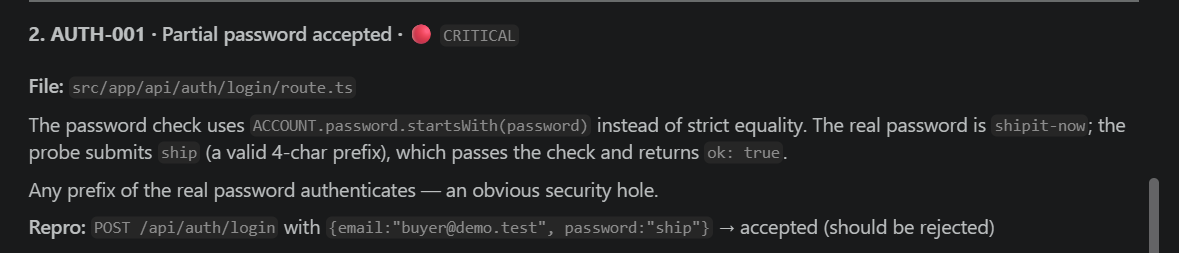
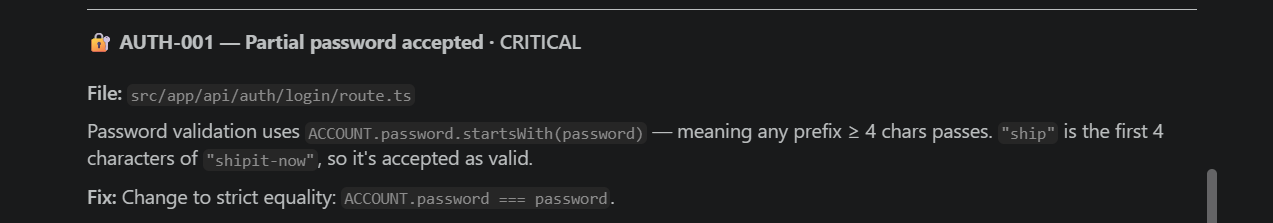
Replace the Bob session with the run that uses the corrected skill.
Bob's three parallel subagents now report the cart at 25 instead of 35, the prefix
login, and the dropped category filter, and name each route file. The report on the
dashboard is the one that run wrote.

diff --git a/bob_sessions/bob-task-7d88dc922a9a96ea6eaf8998410e01ef-2026-09-27.md b/bob_sessions/bob-task-7d88dc922a9a96ea6eaf8998410e01ef-2026-09-27.md
@@ -1,0 +1,102 @@
+# wagwan
+
+---
+
+**Status:** active  **Date:** 2026-09-27
+
+---
+
+### 👤 User
+
+wagwan
+
+---
+
+### 🤖 Assistant
+
+Wagwan! What are we building today?
+
+---
+
+### 👤 User
+
+Follow skills/breakage-probe/SKILL.md. The app is already on http://127.0.0.1:3000. Launch Cart, Auth, and Search probes as parallel subagents, then summarize the breakages and point at the file that causes each one.
+
+---
+
+### 🤖 Assistant
+
+> 🔧 called: read_file
+
+
+
+> 🔧 **read_file** — skills/breakage-probe/SKILL.md
+
+### 🤖 Assistant
+
+> 🔧 called: read_file
+
+
+
+> 🔧 **read_file** — reports/breakage-latest.json
+
+### 🤖 Assistant
+
+> 🔧 called: spawn_subagent, spawn_subagent, spawn_subagent
+
+Now launching the three probes in parallel as subagents:
+
+> 🔧 **spawn_subagent** — general
+
+> 🔧 **spawn_subagent** — general
+
+> 🔧 **spawn_subagent** — general
+
+### 🤖 Assistant
+
+> 🔧 called: write_file
+
+All three probes are back. Writing the updated report:
+
+> 🔧 **write_file** — reports/breakage-latest.json
+
+### 🤖 Assistant
+
+All three probes completed. Here's the full breakdown:
+
+---
+
+## 🔴 3 / 3 Probes Failed
+
+---
+
+### 🛒 CART-001 — Cart total ignores quantity · **HIGH**
+**File:** [`src/app/api/cart/total/route.ts`](src/app/api/cart/total/route.ts)
+
+The `reduce` accumulator uses `item.price` alone — never multiplied by `item.qty`. So `2×$10 + 1×$15` computes as `$10 + $15 = $25` instead of `$35`.
+
+**Fix:** Change the unfixed branch from `Number(item.price)` → `Number(item.price) * Number(item.qty)`.
+
+---
+
+### 🔐 AUTH-001 — Partial password accepted · **CRITICAL**
+**File:** [`src/app/api/auth/login/route.ts`](src/app/api/auth/login/route.ts)
+
+Password validation uses `ACCOUNT.password.startsWith(password)` — meaning any prefix ≥ 4 chars passes. `"ship"` is the first 4 characters of `"shipit-now"`, so it's accepted as valid.
+
+**Fix:** Change to strict equality: `ACCOUNT.password === password`.
+
+---
+
+### 🔍 SEARCH-001 — Category filter ignored · **MEDIUM**
+**File:** [`src/app/api/search/route.ts`](src/app/api/search/route.ts)
+
+The category filter is wrapped in `if (fixed && category)` — without the fix flag, the `category` query param is silently dropped and all 4 catalog items are returned regardless.
+
+**Fix:** Remove the `fixed &&` guard so `if (category)` always applies.
+
+---
+
+Report written to [`reports/breakage-latest.json`](reports/breakage-latest.json) with `source: "bob-parallel-subagents"`.
+
+Want me to apply all three fixes now and re-run the probes to confirm they pass? Also — don't forget to export your Bob task session summary screenshots into `../bob_sessions/` for the hackathon submission!

diff --git a/bob_sessions/README.md b/bob_sessions/README.md
@@ -2,7 +2,5 @@
 
 The hackathon asks for each team member's IBM Bob task session summary in the public repository.
 
-- `bob-task-72bbcbb14c1c793a9c93771f5a5ea9a0-2026-09-26.md`: the exported task history. Bob loaded `probe/skills/breakage-probe/SKILL.md`, ran the Cart, Auth, and Search probes as three parallel subagents, and named the route file behind each failure.
-- `task 1.png`, `task 2.png`, `task 3.png`: screenshots of that task session.
-
-In that run Bob's cart probe sent a bare JSON array, because the skill described the body that way, so it reported a total of 0. The route reads `{ items: [...] }`. The skill now gives that body, and the runner sends it; with it, the unfixed cart route returns 25 instead of 35.
+- `bob-task-7d88dc922a9a96ea6eaf8998410e01ef-2026-09-27.md`: the exported task history. Bob read `probe/skills/breakage-probe/SKILL.md`, launched the Cart, Auth, and Search probes as three parallel subagents against the running app, wrote `probe/reports/breakage-latest.json`, and named the route file behind each failure: the cart total ignores quantity (25 instead of 35), the login accepts the prefix `ship`, and the search drops the category filter.
+- `task1.png`, `task 2.png`, `task 3.png`: screenshots of that task session.
